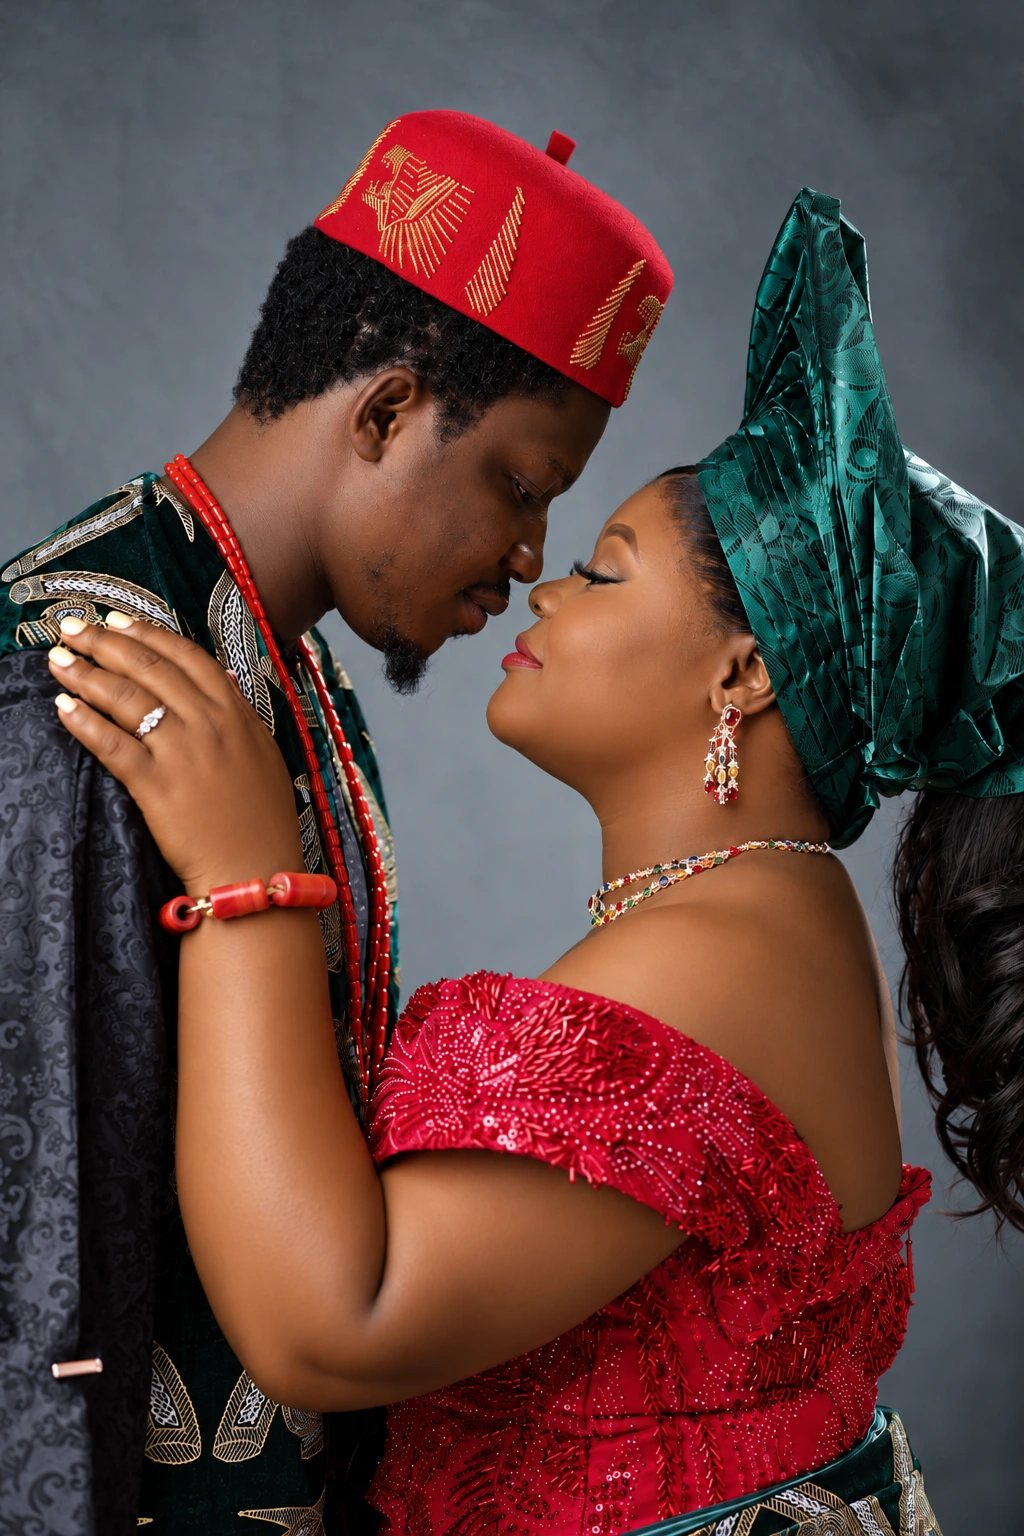
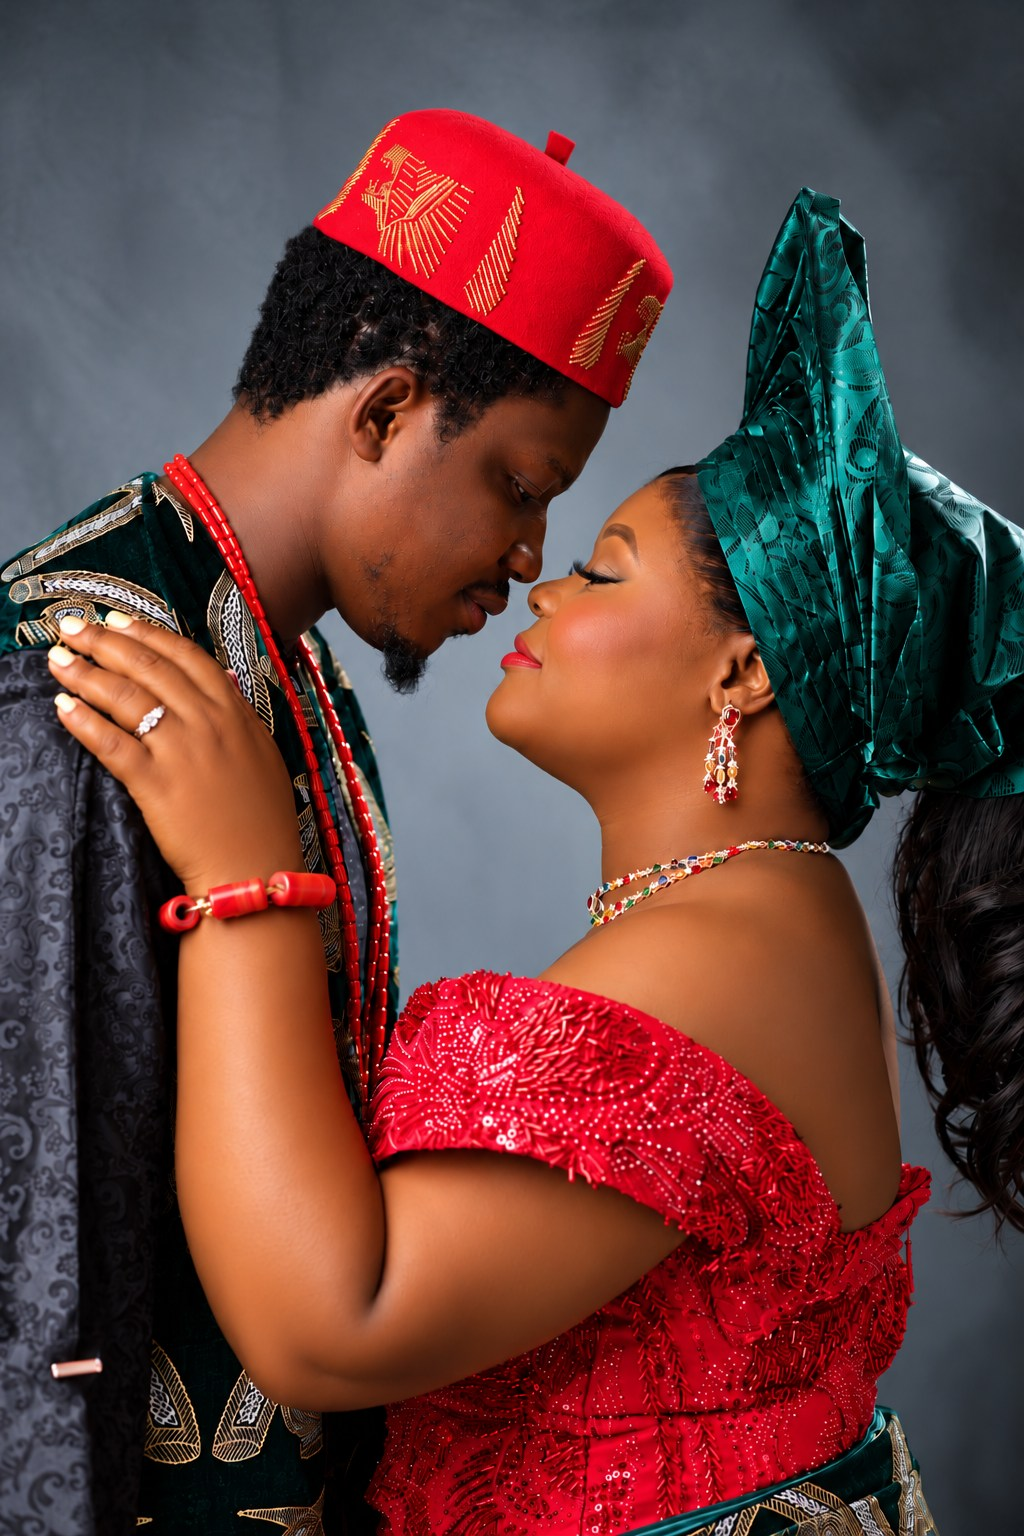
Update Chapter 3 traditional close portrait with original high-res image and pause/resume music on page leave/return

diff --git a/index.html b/index.html
@@ -2072,7 +2072,6 @@ footer {
     <div class="story-chapter reveal">
       <div class="chapter-image">
         <picture>
-          <source srcset="assets/gq-couple-traditional-close.webp" type="image/webp">
           <img src="assets/gq-couple-traditional-close.jpg" alt="Wrapped in Heritage, Rooted in Love" loading="lazy" decoding="async" data-i18n-alt="story.alt3">
         </picture>
       </div>
@@ -2370,6 +2369,7 @@ function openEnvelope(e){
 
 const bgMusic = $('#bgMusic');
 const musicToggle = $('#musicToggle');
+let wasMusicPlayingBeforeLeave = false;
 
 function playAudioSafely() {
   if (!bgMusic) return;
@@ -2384,19 +2384,48 @@ function playAudioSafely() {
   }
 }
 
+function pauseAudioSafely() {
+  if (!bgMusic) return;
+  bgMusic.pause();
+  if (musicToggle) musicToggle.classList.remove('playing');
+}
+
 function toggleAudio() {
   if (!bgMusic) return;
   if (bgMusic.paused) {
     playAudioSafely();
   } else {
-    bgMusic.pause();
-    if (musicToggle) musicToggle.classList.remove('playing');
+    pauseAudioSafely();
   }
 }
 
 if (musicToggle) {
   musicToggle.addEventListener('click', toggleAudio);
 }
+
+// Pause music when user leaves or switches apps/tabs, resume when they return
+document.addEventListener('visibilitychange', () => {
+  if (!bgMusic) return;
+  if (document.hidden) {
+    if (!bgMusic.paused) {
+      wasMusicPlayingBeforeLeave = true;
+      pauseAudioSafely();
+    }
+  } else {
+    if (wasMusicPlayingBeforeLeave) {
+      wasMusicPlayingBeforeLeave = false;
+      playAudioSafely();
+    }
+  }
+});
+
+window.addEventListener('pagehide', () => {
+  if (bgMusic && !bgMusic.paused) {
+    wasMusicPlayingBeforeLeave = true;
+    pauseAudioSafely();
+  }
+});
+
 
 $('#envSeal').addEventListener('click', openEnvelope);
 $('#openInvitation').addEventListener('click', openEnvelope);
